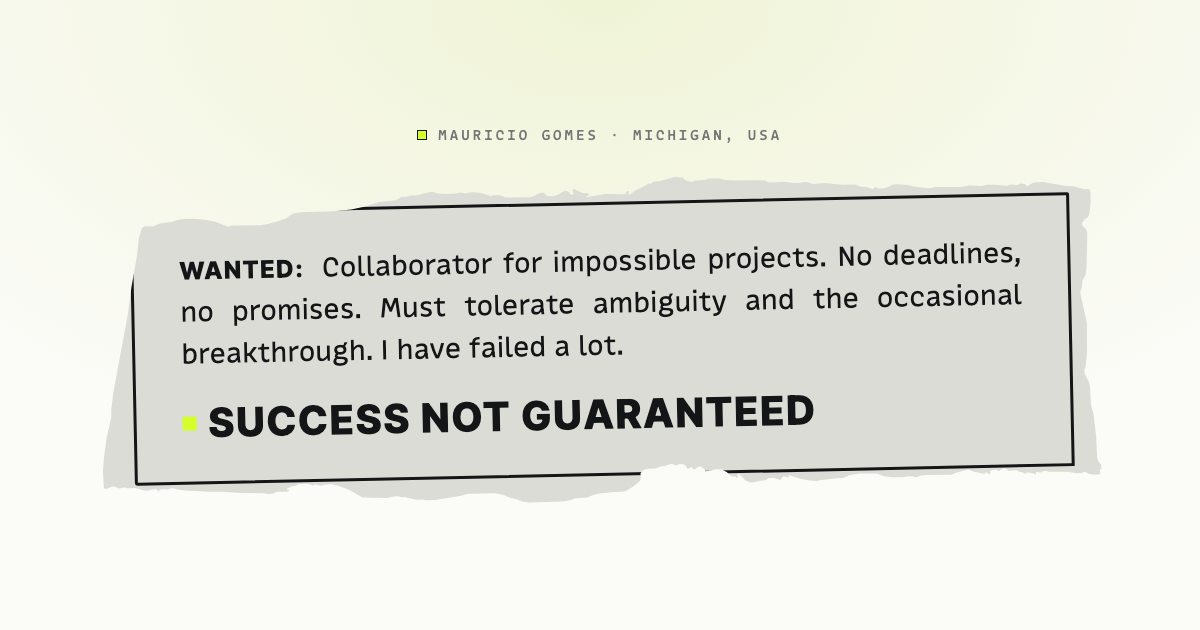
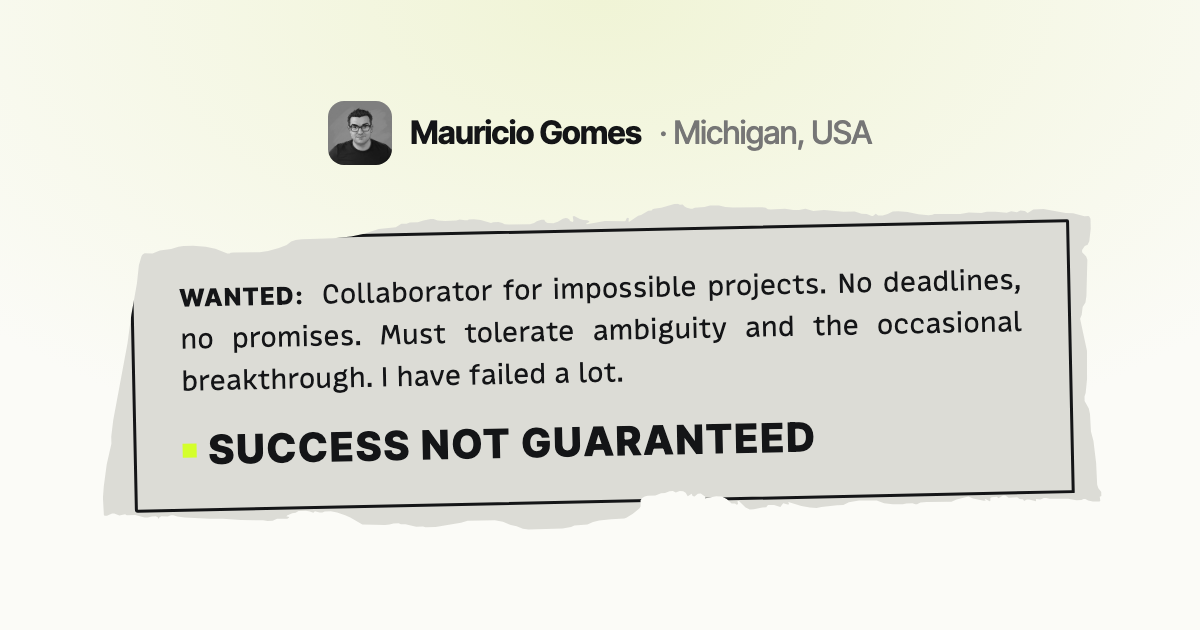
Put the author on the site card
The site card carried the author only in the 14px mono meta line, which
disappears once a preview scales the card down to a few hundred pixels. It
now leads with the portrait and the name in Inter Tight, the way the
masthead does, with the place beside it in the muted ink.

Claude-Session: https://claude.ai/code/session_014E6CRW5cqeYn16gnGXgM3R

diff --git a/assets/css/og.css b/assets/css/og.css
@@ -24,11 +24,32 @@ body {display: block;}
   justify-content: center;
 }
 
-.og-stage .meta {
-  justify-content: center;
-  margin: 0 0 36px;
-  font-size: 14px;
+/* SITE CARD. The author sits above the ad the way the masthead does, at a
+   size that survives a preview's downscale; the mono meta line would not. */
+.og-byline {
+  margin: 0 0 40px;
+  display: flex;
+  align-items: center;
+  gap: 18px;
+  font: 700 32px / 1 InterTight, system-ui, -apple-system, sans-serif;
+  letter-spacing: -0.02em;
+  color: var(--fg);
 }
+
+.og-byline img {
+  width: 64px;
+  height: 64px;
+  border-radius: 16px;
+  object-fit: cover;
+  filter: grayscale(1);
+}
+
+.og-byline-place {
+  font-weight: 500;
+  color: var(--fg-muted);
+}
+
+.og-stage .meta {font-size: 14px;}
 
 /* The tear-out at card scale: wider and larger, same proportions. A fixed
    width, so a short title gets the same scrap as a long one. */
@@ -67,7 +88,6 @@ body {display: block;}
 }
 
 .og-post .tearout-ad .meta {
-  justify-content: flex-start;
   margin: 0 0 22px;
   color: var(--fg-quiet);
 }

diff --git a/layouts/home.og.html b/layouts/home.og.html
@@ -10,7 +10,7 @@
 </head>
 <body class="og">
   <main class="og-stage">
-    <p class="meta"><span class="marker"></span>{{ site.Params.author }} · {{ .Params.tagline }}</p>
+    <p class="og-byline"><img src="/avatar-portrait.png" alt="" width="64" height="64">{{ site.Params.author }}<span class="og-byline-place"> · {{ .Params.tagline }}</span></p>
     {{ partial "tearout.html" . }}
   </main>
 </body>
